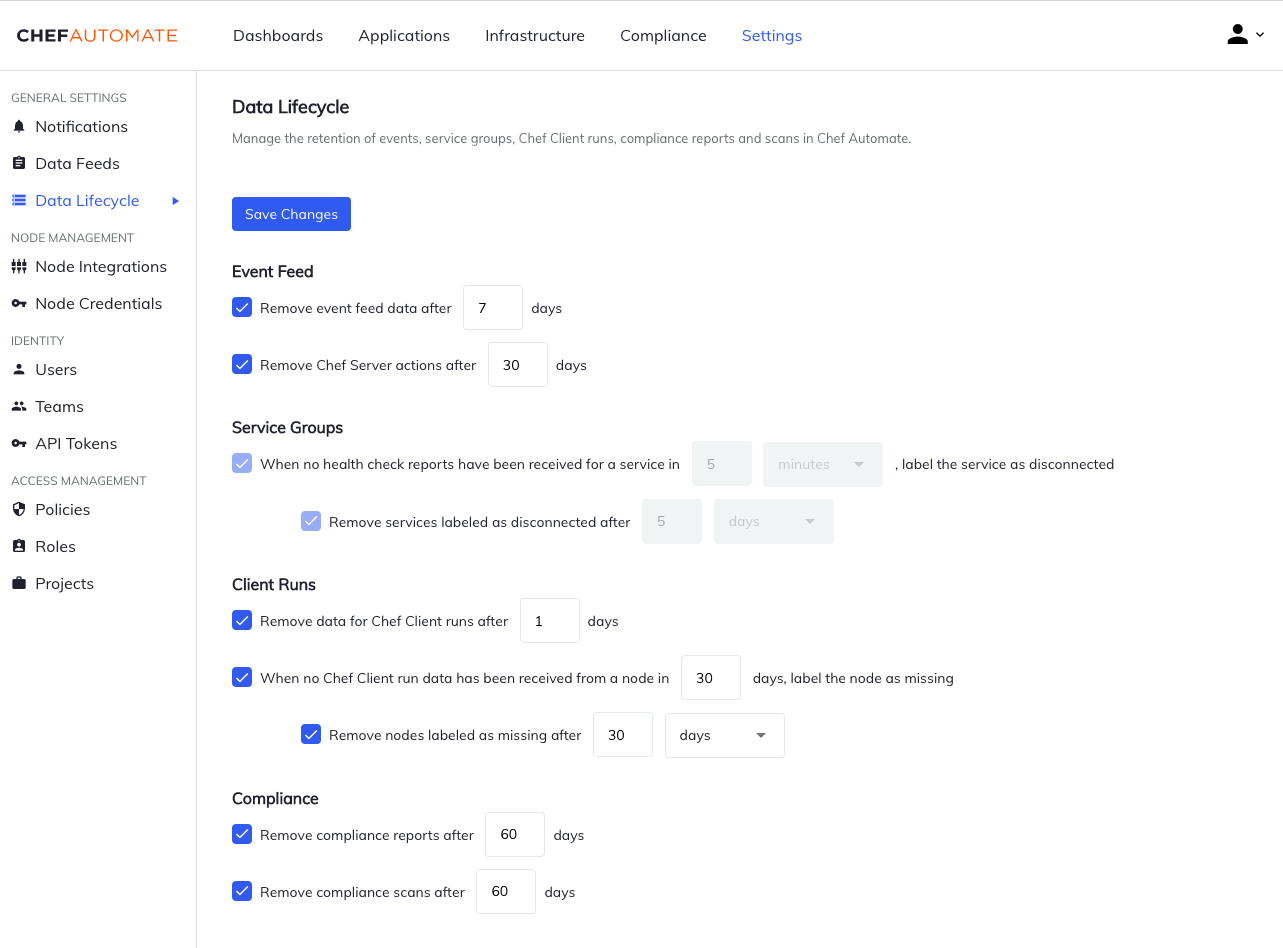
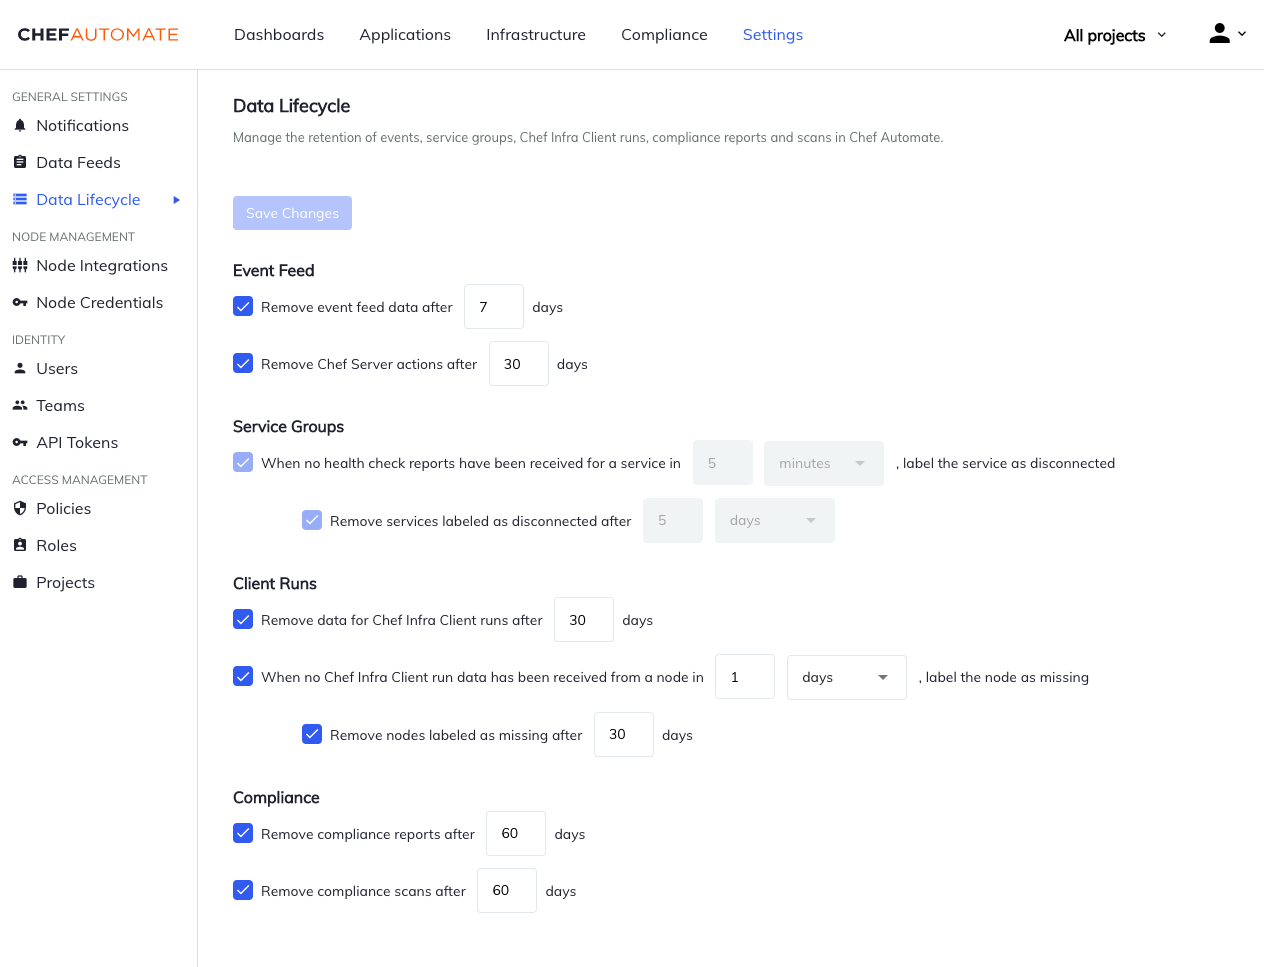
fix data lifecycle client run docs

diff --git a/components/automate-chef-io/content/docs/data-lifecycle.md b/components/automate-chef-io/content/docs/data-lifecycle.md
@@ -47,7 +47,7 @@ The default is to label health check reports as disconnected after 5 minutes, an
 
 The Client Runs data lifecycle settings allow you to remove data after a set amount of days.
 They also allow you to label nodes as missing and automatically remove them after a set amount of days.
-The default is to remove Chef Infra Client run data after 1 day, to label nodes as missing after 30 days, and to remove nodes labeled as missing after 30 days.
+The default is to remove Chef Infra Client run data after 30 days, to label nodes as missing after 1 days and to remove nodes labeled as missing after 30 days.
 
 ### Compliance
 
